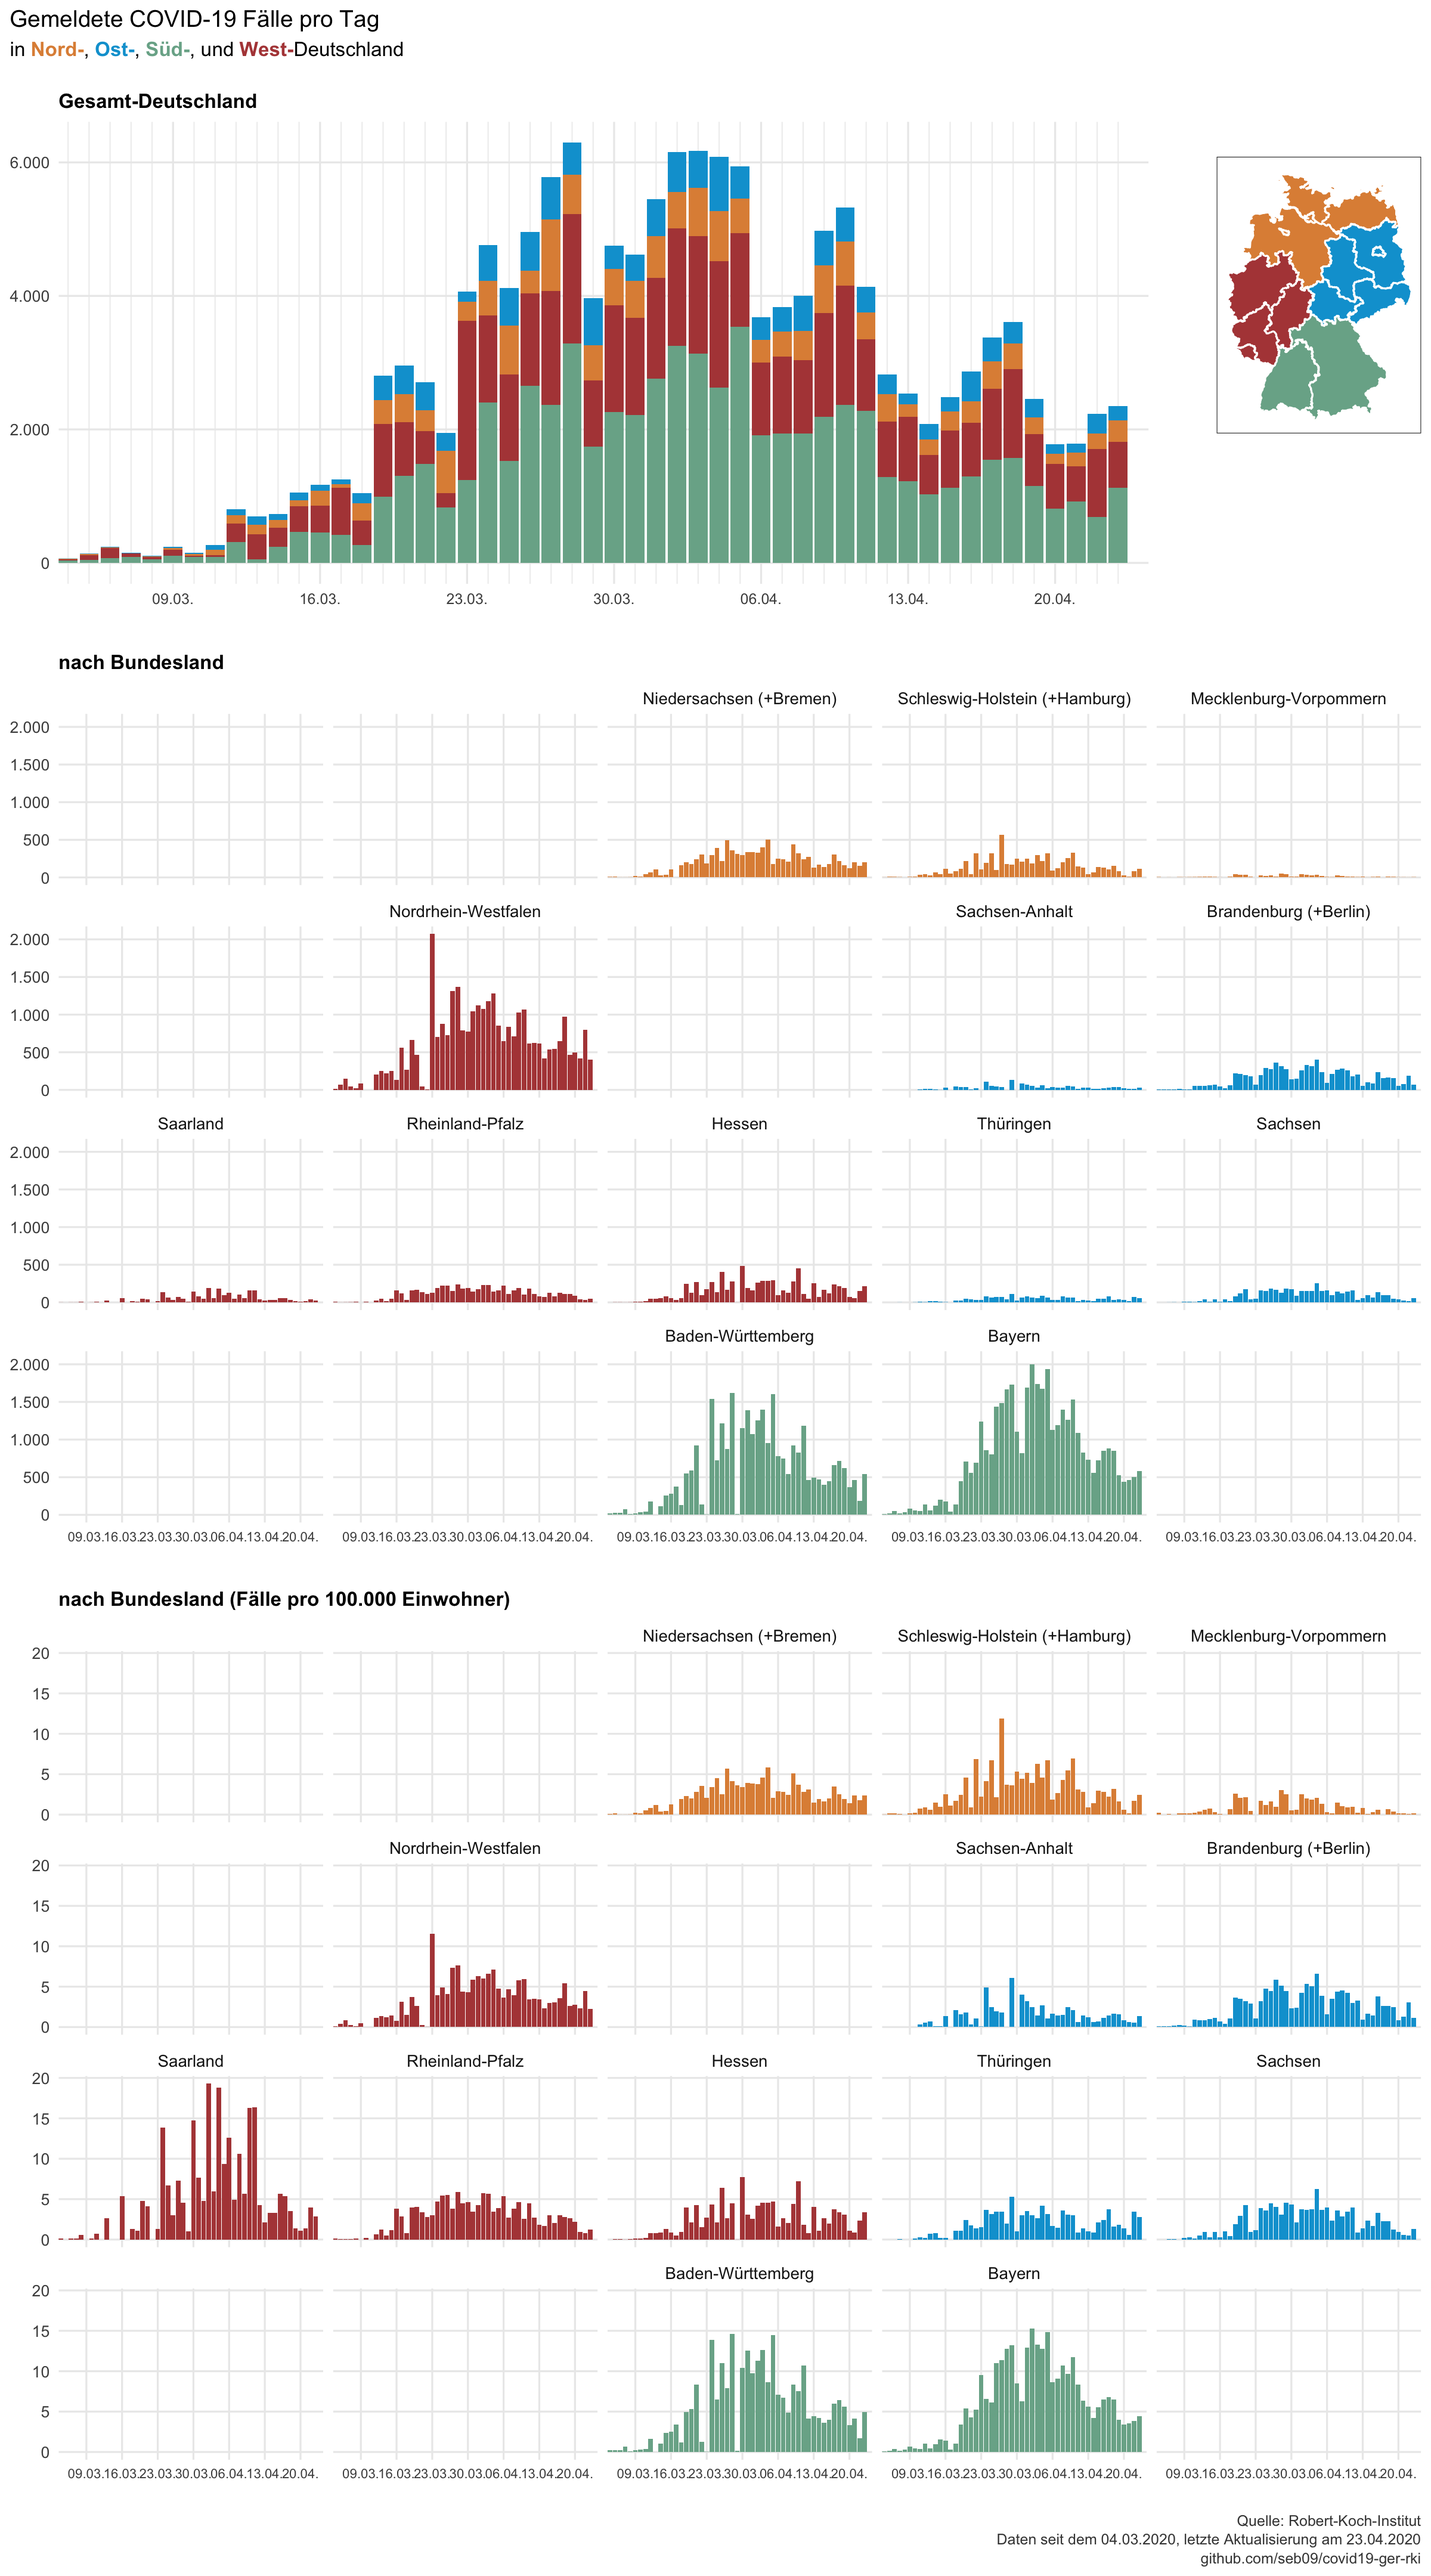
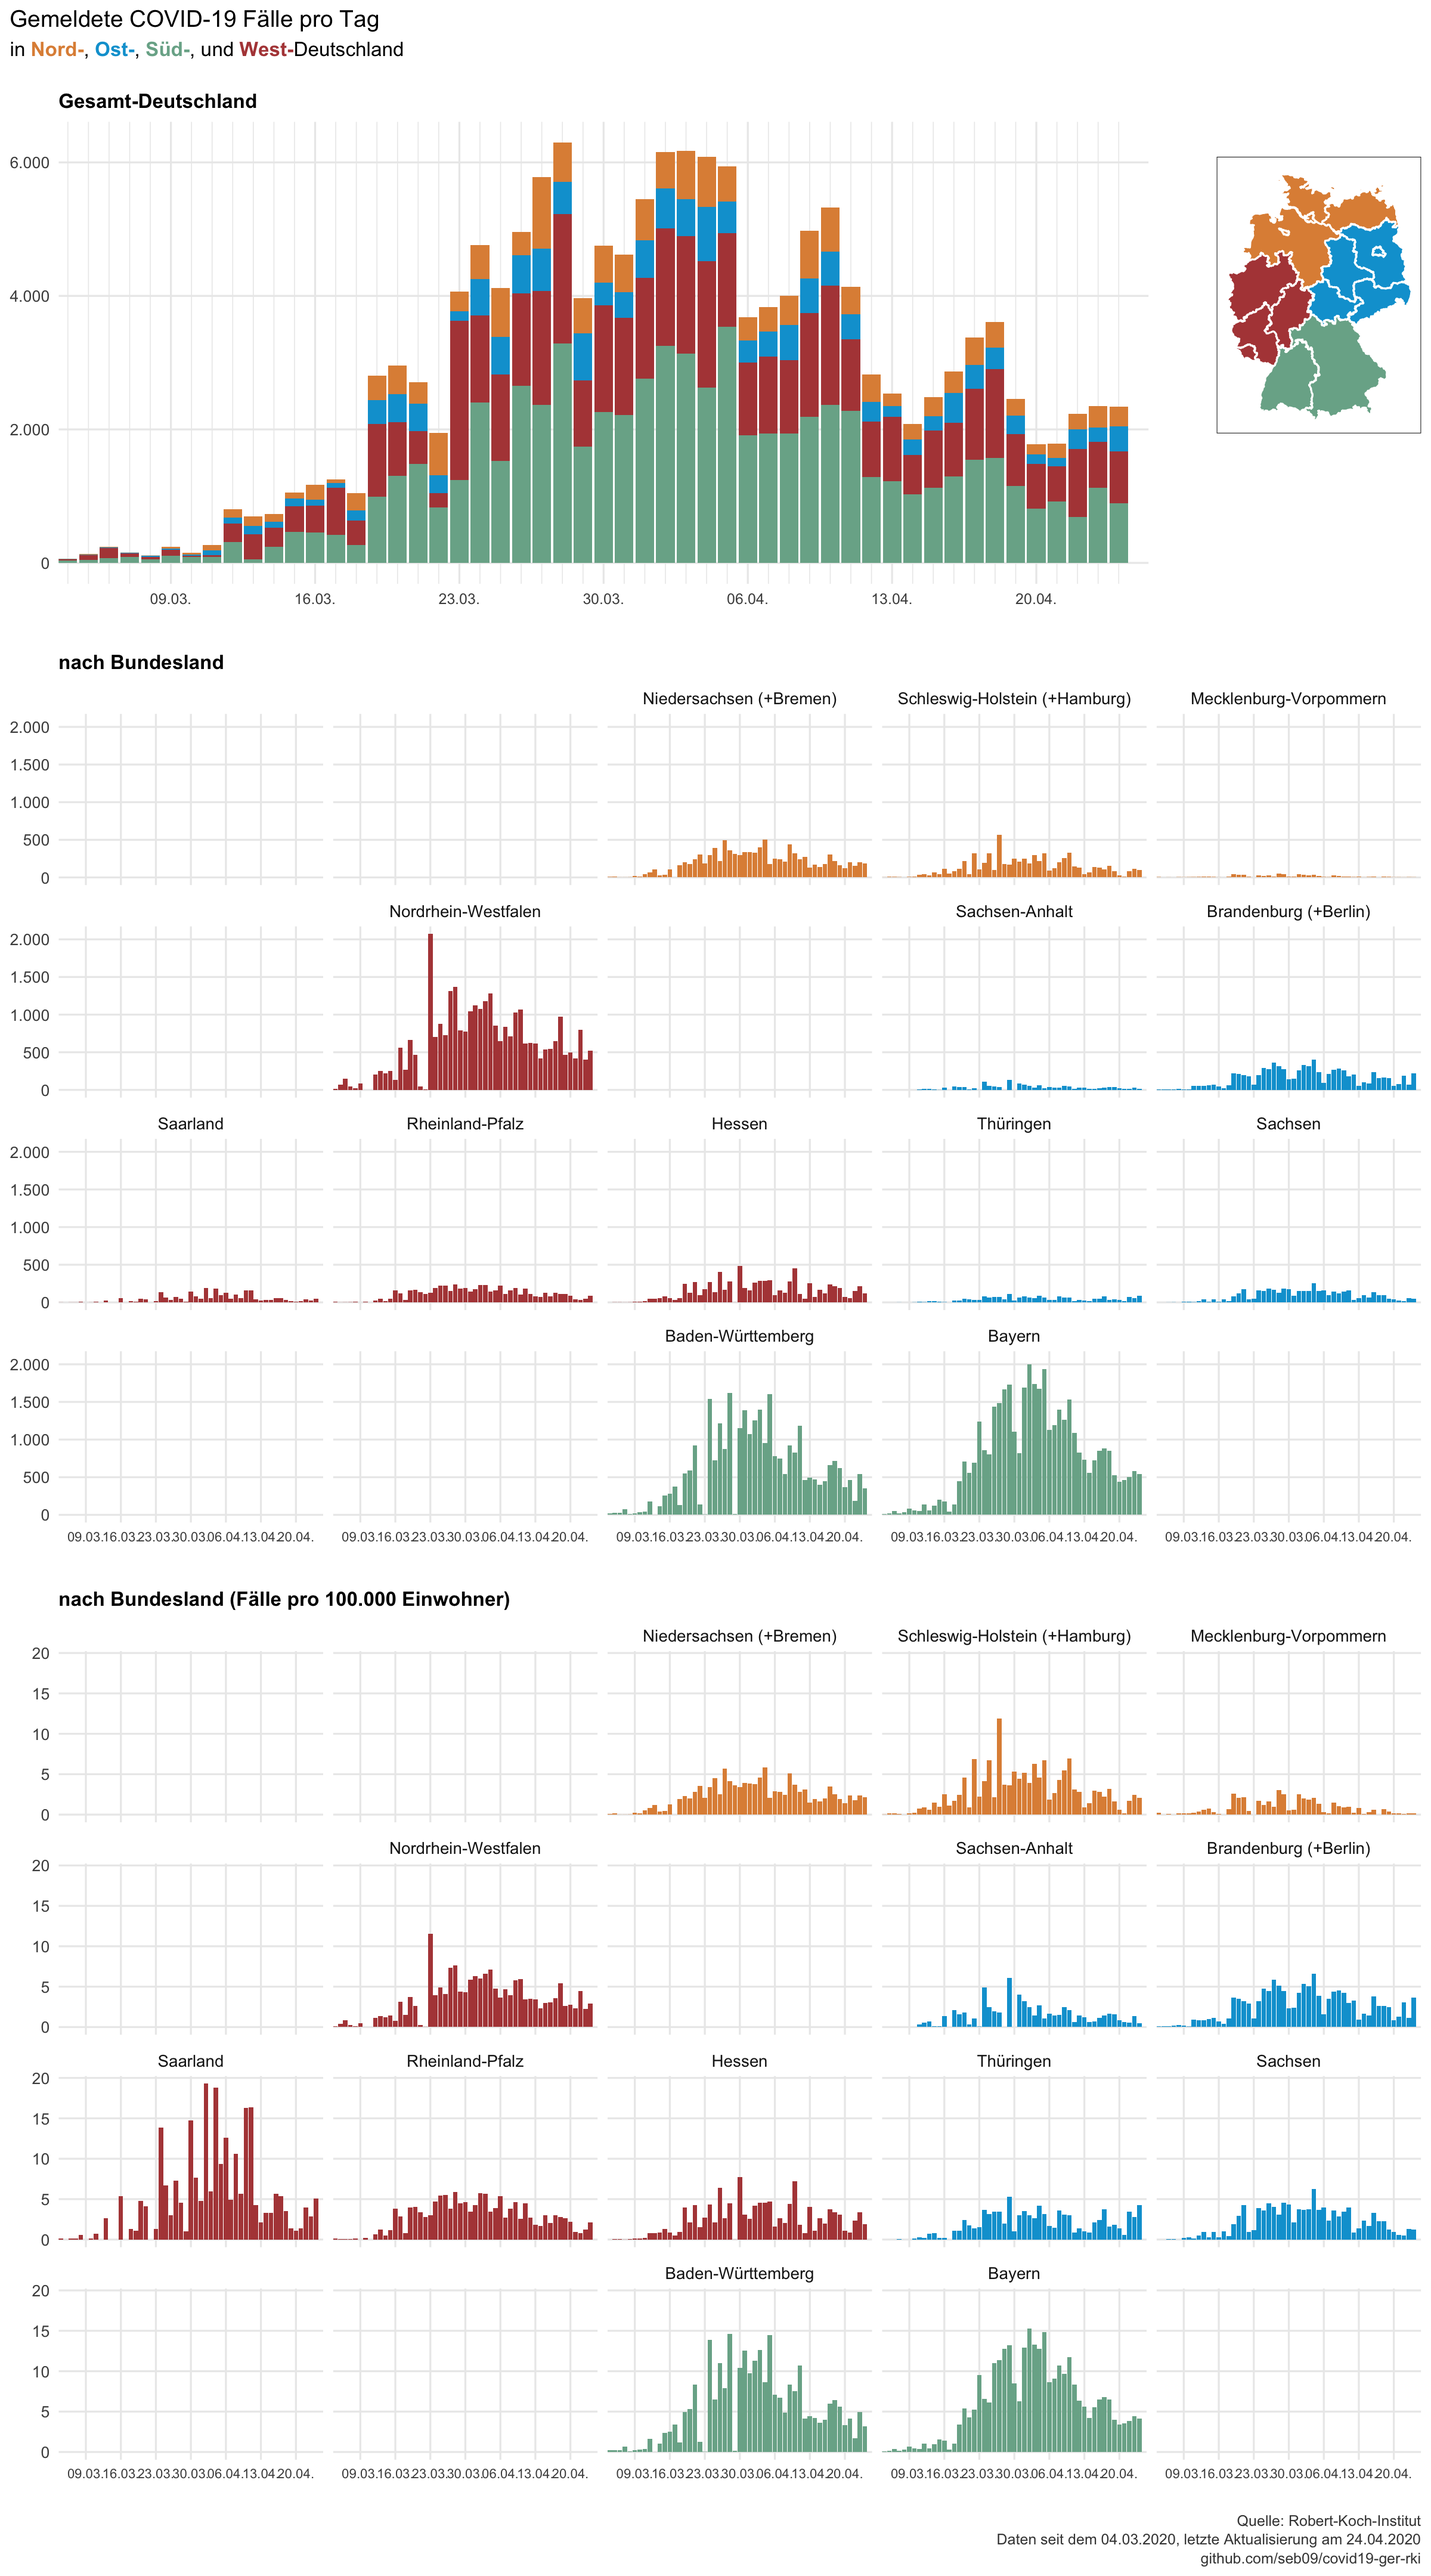
daily update 2020-04-24

diff --git a/README.md b/README.md
@@ -1,6 +1,6 @@
 Data from the Robert-Koch-Institut on COVID-19 in Germany
 ================
-Last update: 2020-04-23
+Last update: 2020-04-24
 
 This repository contains data on reported COVID-19 cases in Germany and
 its federal states that is published daily by the Robert-Koch-Institut
@@ -14,26 +14,26 @@ corona_rki %>%
   print(n = 16)
 ```
 
-    ## # A tibble: 810 x 6
+    ## # A tibble: 826 x 6
     ##    Datum      Bundesland      Fallzahl Todeszahl Fallzahl_neu Todeszahl_neu
     ##    <date>     <chr>              <dbl>     <dbl>        <dbl>         <dbl>
-    ##  1 2020-04-23 Baden-Württemb…    29443      1113          545            50
-    ##  2 2020-04-23 Bayern             39395      1476          581            52
-    ##  3 2020-04-23 Berlin              5324       105           12             0
-    ##  4 2020-04-23 Brandenburg         2447        84           58            10
-    ##  5 2020-04-23 Bremen               672        27           48             1
-    ##  6 2020-04-23 Hamburg             4286       113           82            22
-    ##  7 2020-04-23 Hessen              7593       286          213            21
-    ##  8 2020-04-23 Mecklenburg-Vo…      659        15            3             0
-    ##  9 2020-04-23 Niedersachsen       9391       340          155            12
-    ## 10 2020-04-23 Nordrhein-West…    30584       999          399            35
-    ## 11 2020-04-23 Rheinland-Pfalz     5643       131           50             9
-    ## 12 2020-04-23 Saarland            2395        99           28             2
-    ## 13 2020-04-23 Sachsen             4327       127           54             5
-    ## 14 2020-04-23 Sachsen-Anhalt      1425        34           30             1
-    ## 15 2020-04-23 Schleswig-Hols…     2530        84           34             5
-    ## 16 2020-04-23 Thüringen           1932        61           60           -10
-    ## # … with 794 more rows
+    ##  1 2020-04-24 Baden-Württemb…    29792      1153          349            40
+    ##  2 2020-04-24 Bayern             39939      1525          544            49
+    ##  3 2020-04-24 Berlin              5459       112          135             7
+    ##  4 2020-04-24 Brandenburg         2536        90           89             6
+    ##  5 2020-04-24 Bremen               707        27           35             0
+    ##  6 2020-04-24 Hamburg             4358       122           72             9
+    ##  7 2020-04-24 Hessen              7712       296          119            10
+    ##  8 2020-04-24 Mecklenburg-Vo…      661        16            2             1
+    ##  9 2020-04-24 Niedersachsen       9544       364          153            24
+    ## 10 2020-04-24 Nordrhein-West…    31106      1052          522            53
+    ## 11 2020-04-24 Rheinland-Pfalz     5731       136           88             5
+    ## 12 2020-04-24 Saarland            2445       105           50             6
+    ## 13 2020-04-24 Sachsen             4377       135           50             8
+    ## 14 2020-04-24 Sachsen-Anhalt      1436        35           11             1
+    ## 15 2020-04-24 Schleswig-Hols…     2557        88           27             4
+    ## 16 2020-04-24 Thüringen           2023        65           91             4
+    ## # … with 810 more rows
 
 Data is downloaded each day at 11am from the [website of the
 RKI](https://www.rki.de/DE/Content/InfAZ/N/Neuartiges_Coronavirus/Fallzahlen.html)
